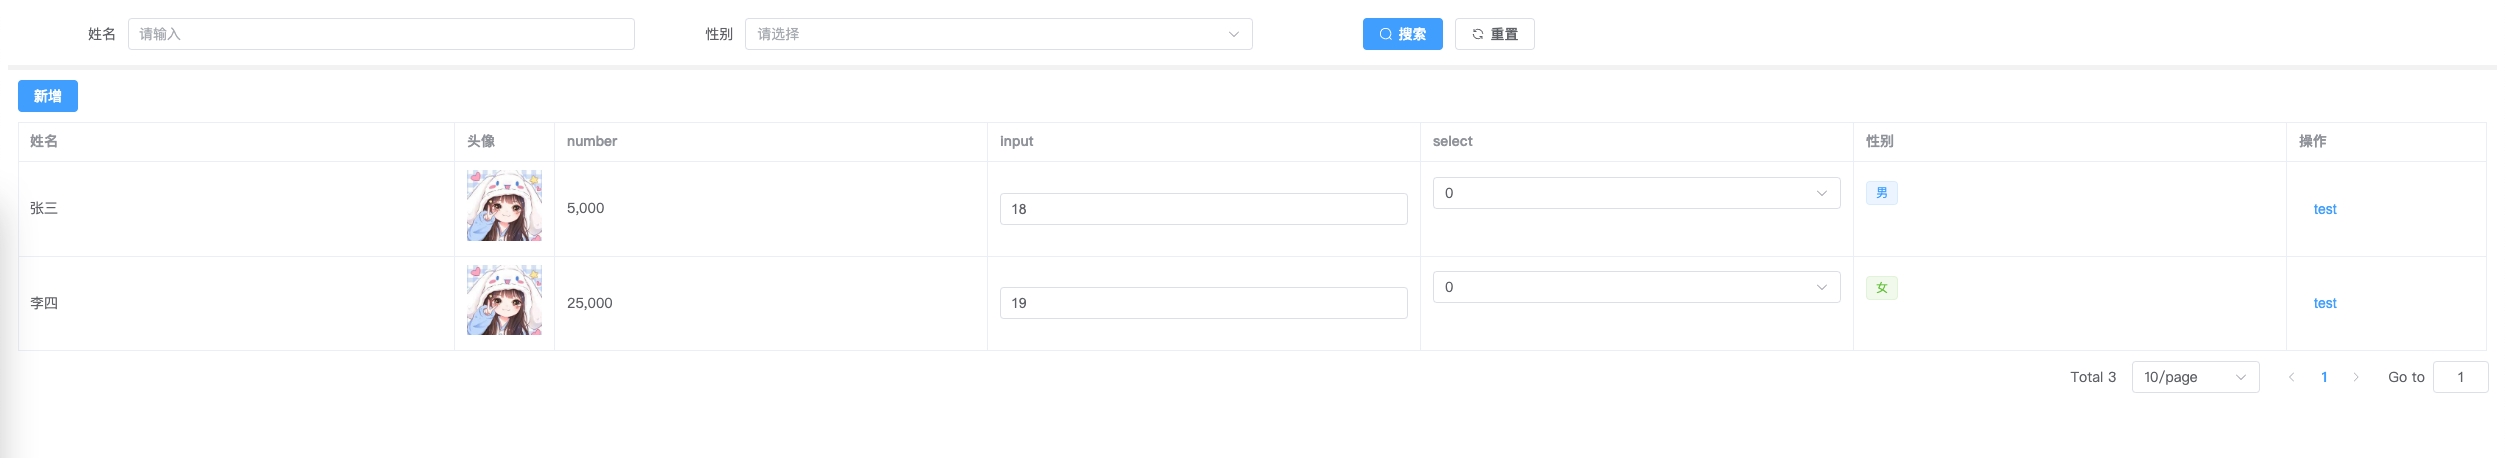
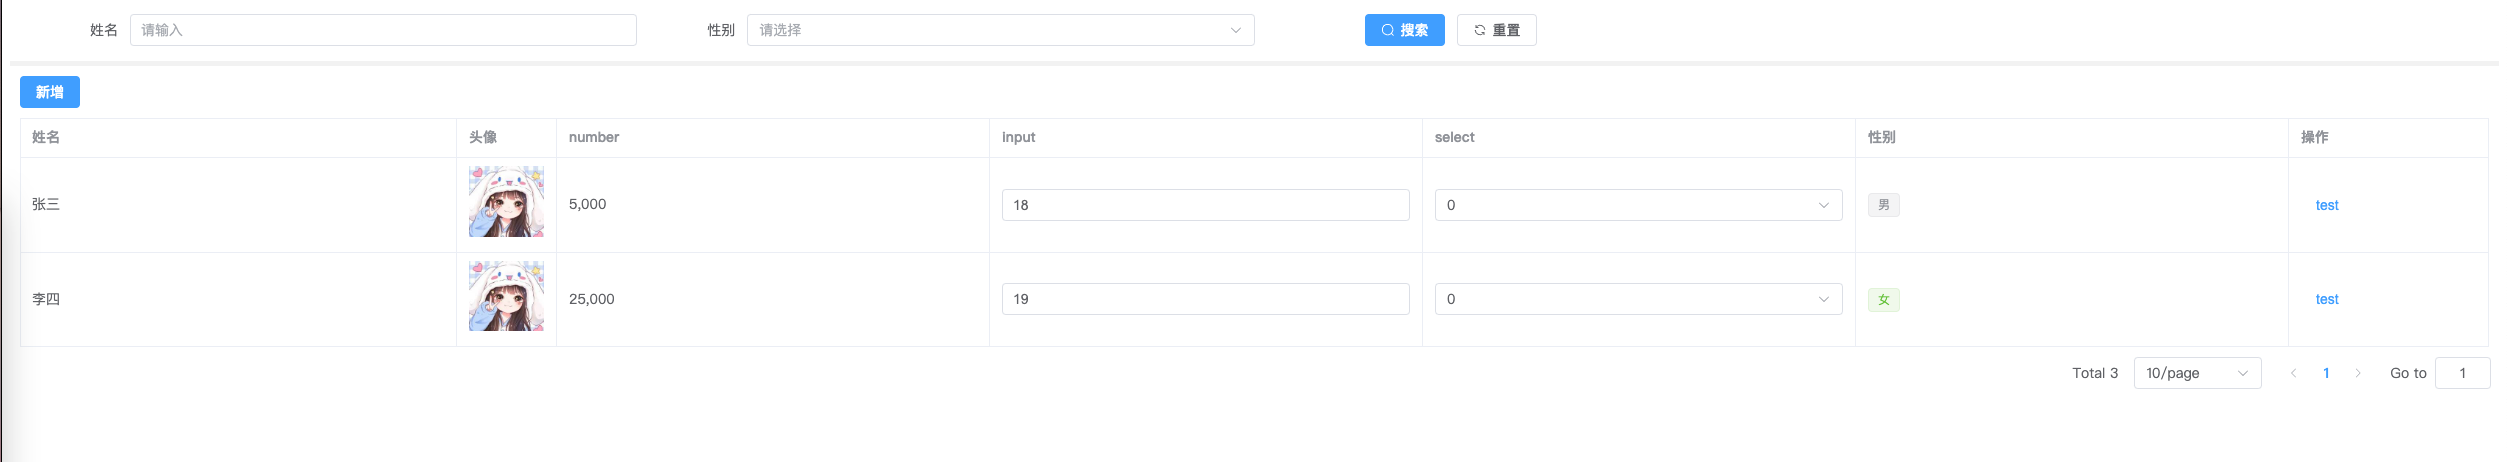
fix: 修复样式问题

diff --git a/packages/v-table/v-table.vue b/packages/v-table/v-table.vue
@@ -22,7 +22,7 @@
           />
 
           <div
-            v-else
+            v-if="item.scope === 'btn'"
             class="operator-btn"
             >
             <el-button
@@ -44,7 +44,7 @@
 
 <script setup>
 import { ElTable, ElTableColumn, ElButton } from 'element-plus'
-import { defineProps, ref, onMounted, nextTick, onUnmounted, defineExpose, defineEmits, getCurrentInstance } from 'vue'
+import { defineProps, ref, onMounted, nextTick, onUnmounted, defineExpose, getCurrentInstance } from 'vue'
 import VElement from '../v-element/v-element.vue'
 import { copy } from '../utils/index'
 

diff --git a/src/App.vue b/src/App.vue
@@ -63,12 +63,12 @@ const getList = () => {
 }
 
 const gender = [
-  { label: '男', value: 0, type: 'primary' },
+  { label: '男', value: 0, type: 'info' },
   { label: '女', value: 1, type: 'success' },
 ]
 
 const select = [
-  { label: '0', value: 0, type: 'primary' },
+  { label: '0', value: 0, type: 'info' },
   { label: '1', value: 1, type: 'success' },
 ]
 
